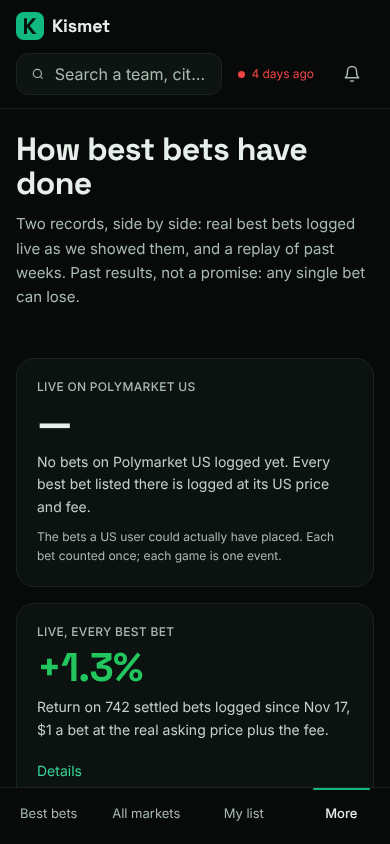
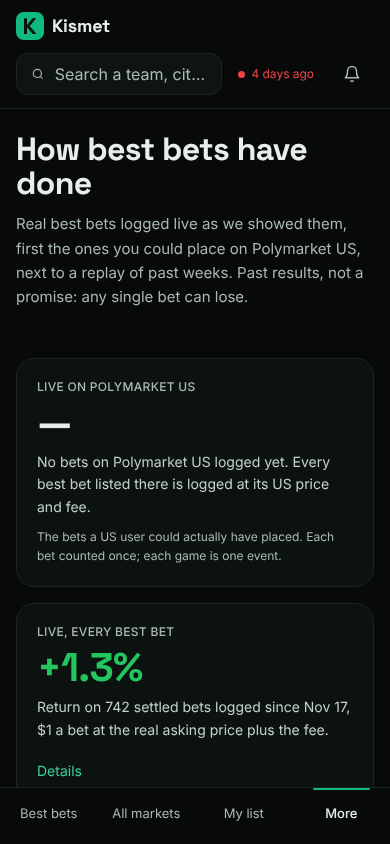
T-296: events and the 'enough' call from the US record only; split check script; doc fixes
Claude-Session: https://claude.ai/code/session_01Xq7uwdZCe7fdoS1L1HaNXT

Changed region(s): [[0.0308, 0.2464, 0.9538, 0.3697]]

diff --git a/apps/web/components/results/summary.ts b/apps/web/components/results/summary.ts
@@ -20,13 +20,14 @@ const evs = (n: number) => `${exactCount(n)} event${n === 1 ? "" : "s"}`;
  *  summary has it, else the raw rows (summaries written before `first` existed). */
 export const liveBase = (l: LedgerSummary | null | undefined): LedgerStats | null => (l ? (l.first ?? l) : null);
 
-/** Distinct events among settled bets, or null when the summary can't know them. engine/ledger.summarize groups by
- *  `event_id`, which rows logged before the US venue shipped don't have, so each of those markets counts as its own
- *  event (Nov 20 ledger: 739 "events" for 742 bets, really ~179 games and city-days). A record of 50+ bets with at
- *  least 98% as many events as bets is read as "no event ids", never shown as a sample size. */
-export function eventsOf(s: LedgerStats | null | undefined): number | null {
-  if (!s || !ok(s.events) || !s.graded) return null;
-  return s.graded >= 50 && s.events >= 0.98 * s.graded ? null : s.events;
+/** Distinct events among settled bets, from the US record only. engine/ledger.summarize groups by `event_id`, which
+ *  rows logged before the US venue shipped don't have, so in `first` (and the raw totals) each of those markets counts
+ *  as its own event (Nov 20 ledger: 739 "events" for 742 bets, really ~179 games and city-days), and that stays true
+ *  as new rows arrive. Rows with a US price are all logged by the new code, which writes `event_id`, so the US
+ *  record's count is the only one shown as a sample size until old rows get an `event_id`. */
+export function usEvents(l: LedgerSummary | null | undefined): number | null {
+  const u = l?.us;
+  return u?.graded && ok(u.events) ? u.events : null;
 }
 
 /** Polymarket US record (the only venue US users can trade): settled US-listed bets at the US price and fee. */
@@ -43,7 +44,7 @@ export function usHeadline(l: LedgerSummary | null | undefined): Headline {
   const r = liveReturn(u);
   return {
     value: ret(r), tone: tone(r),
-    sentence: `Return on ${bets(u.graded)}${eventsOf(u) !== null ? ` in ${evs(eventsOf(u)!)}` : ""} you could place on Polymarket US, $1 a bet at the US price plus its fee.`,
+    sentence: `Return on ${bets(u.graded)}${usEvents(l) !== null ? ` in ${evs(usEvents(l)!)}` : ""} you could place on Polymarket US, $1 a bet at the US price plus its fee.`,
   };
 }
 
@@ -57,7 +58,7 @@ export function liveHeadline(l: LedgerSummary | null | undefined, since: string 
   const r = liveReturn(s);
   return {
     value: ret(r), tone: tone(r),
-    sentence: `Return on ${bets(s.graded)}${eventsOf(s) !== null ? ` in ${evs(eventsOf(s)!)}` : ""} logged${since ? ` since ${since}` : ""}, $1 a bet at the real asking price plus the fee.`,
+    sentence: `Return on ${bets(s.graded)} logged${since ? ` since ${since}` : ""}, $1 a bet at the real asking price plus the fee.`,
   };
 }
 
@@ -113,8 +114,9 @@ export function eventsNeeded(r: BacktestRecord | null | undefined): number | nul
   return Math.max(1, Math.ceil(r.events * (JUDGE_T / r.t_stat) ** 2));
 }
 
-/** The site proof line with the two §G3 corrections for this page: the test span from folds[] (not folds × days),
- *  and the live half counted by bet once and by event, judged on events. `help` is kept (it starts "Testing: "). */
+/** The site proof line with the §G3 corrections for this page: the test span from folds[] (not folds × days); the
+ *  live record counted by bet once; and "enough to compare" judged on events, which only the US record counts
+ *  reliably (see usEvents), so with no settled US bets no call is made. `help` is kept (it starts "Testing: "). */
 export function trackProof(p: Proof, b: BacktestFile | null | undefined, l: LedgerSummary | null | undefined, since: number | null): Proof {
   const r = b ? chosenResult(b)?.taker : null;
   const test = r && ok(r.roi_pct) && r.flags
@@ -124,17 +126,17 @@ export function trackProof(p: Proof, b: BacktestFile | null | undefined, l: Ledg
   const need = eventsNeeded(r);
   const head = since ? `Live since ${sinceDay(since)}` : "Live so far";
   const n = s?.graded ?? 0;
-  const e = eventsOf(s);
+  const e = usEvents(l);
   const roi = liveReturn(s);
   const enough = need !== null && e !== null && e >= need;
   let live: string;
   if (!s) live = "Live record: starts with the first logged best bet.";
   else if (!n) live = `${head}: ${exactCount(s.entries)} logged, none settled yet.`;
   else {
-    const what = `${bets(n)}${e !== null ? ` in ${evs(e)}` : ""}, ${ret(roi)}`;
-    live = need === null || e === null ? `${head}: ${what}.`
-      : enough ? `${head}: ${what}, enough to compare with testing.`
-        : `${head}: ${what}, still too few to judge (needs ~${formatCount(need)} events).`;
+    const us = e !== null ? `; on Polymarket US ${bets(l!.us!.graded)} in ${evs(e)}, ${ret(liveReturn(l!.us))}` : "";
+    live = need === null || e === null ? `${head}: ${bets(n)}, ${ret(roi)}${us}.`
+      : enough ? `${head}: ${bets(n)}, ${ret(roi)}${us}, enough to compare with testing.`
+        : `${head}: ${bets(n)}, ${ret(roi)}${us}, still too few to judge (needs ~${formatCount(need)} events).`;
   }
   return { ...p, test, live, line: [test, live].filter(Boolean).join(" "), needs: need, settled: n, liveRoi: roi, enough };
 }

diff --git a/apps/web/components/results/summary.test.ts b/apps/web/components/results/summary.test.ts
@@ -5,8 +5,8 @@ import { ret } from "@/lib/format";
 import { siteProof } from "@/lib/proof";
 import type { BacktestFile, LedgerStats, LedgerSummary } from "@/lib/types";
 import {
-  biggestGroup, compareSentence, eventsNeeded, eventsOf, intlOnlyNote, liveBase, liveHeadline, ratedHigher, testHeadline, testSpanText,
-  testWeeks, trackProof, usHeadline, weeksHeadline,
+  biggestGroup, compareSentence, eventsNeeded, intlOnlyNote, liveBase, liveHeadline, ratedHigher, testHeadline, testSpanText,
+  testWeeks, trackProof, usEvents, usHeadline, weeksHeadline,
 } from "./summary";
 
 const b = fixture as unknown as BacktestFile;
@@ -30,7 +30,7 @@ describe("live record: four states", () => {
     expect(usHeadline(base)).toMatchObject({ value: "—" });
     expect(usHeadline(base).sentence).toMatch(/No bets on Polymarket US logged yet/);
     expect(liveBase(base)).toBe(base);
-    expect(liveHeadline(base, "Nov 17").sentence).toMatch(/^Return on 862 settled bets in 179 events logged since Nov 17/);
+    expect(liveHeadline(base, "Nov 17").sentence).toMatch(/^Return on 862 settled bets logged since Nov 17/);
   });
   it("US bets logged but none settled", () => {
     const l = { ...base, first, us: { ...S(0, 0, 0, 0, 12), avg_pnl: null, by_category: {} } };
@@ -44,21 +44,27 @@ describe("live record: four states", () => {
     expect(h.value).toBe(ret((40 * 0.05) / (36 - 40 * 0.05) * 100));
     expect(h.sentence).toMatch(/^Return on 40 settled bets in 9 events you could place on Polymarket US/);
     // headline whole record uses `first` (each bet once), not the raw rows
-    expect(liveHeadline(l, null).sentence).toMatch(/^Return on 593 settled bets in 179 events/);
+    expect(liveHeadline(l, null).sentence).toMatch(/^Return on 593 settled bets logged,/);
     expect(intlOnlyNote(l)).toBe("Including international-only bets US users couldn't place: 553 (mostly weather).");
   });
 });
 
-describe("event counts from rows without event ids", () => {
-  it("are not shown as a sample size, and the live line makes no 'enough' call on them", () => {
+describe("event counts: only the US record's", () => {
+  it("old rows without event ids never count as events, even mixed with new rows that have them", () => {
+    // 742 old bets (each its own "event") + 30 new US bets in 10 games: first.events = 749 of 772
+    const l: LedgerSummary = { ...base, first: S(772, 597, 0.01, 749), us: { ...S(30, 25, 0.02, 10), by_category: {} }, intl_only: S(742, 572, 0.01) };
+    expect(usEvents(l)).toBe(10);
+    expect(liveHeadline(l, null).sentence).toMatch(/^Return on 772 settled bets logged,/);
+    const p = trackProof(siteProof({ backtest: b, ledger: l, since: NOV17 }), b, l, NOV17);
+    expect(p.live).toBe(`Live since Nov 17: 772 settled bets, ${ret(p.liveRoi)}; on Polymarket US 30 settled bets in 10 events, ${ret((0.6 / 24.4) * 100)}, still too few to judge (needs ~${eventsNeeded(taker)} events).`);
+    expect(p.enough).toBe(false);
+  });
+  it("no settled US bets: no events, no 'enough' call, no international-only note", () => {
     const l = { ...base, first: S(742, 573, 0.0103, 739) };
-    expect(eventsOf(l.first)).toBeNull();
-    expect(eventsOf(first)).toBe(179);
-    expect(liveHeadline(l, null).sentence).toMatch(/^Return on 742 settled bets logged,/);
+    expect(usEvents(l)).toBeNull();
     const p = trackProof(siteProof({ backtest: b, ledger: l, since: NOV17 }), b, l, NOV17);
     expect(p.live).toBe(`Live since Nov 17: 742 settled bets, ${ret(p.liveRoi)}.`);
     expect(p.enough).toBe(false);
-    // no US rows logged yet: every bet would read as international-only, so no note
     expect(intlOnlyNote({ ...l, intl_only: S(742, 573, 0.01) })).toBeNull();
   });
 });
@@ -83,16 +89,14 @@ describe("test span from folds[], not folds × days", () => {
 
 describe("proof line for this page", () => {
   it("keeps the test return and the 'Testing: ' basis, judges live on events", () => {
-    const l = { ...base, first };
+    const l = { ...base, first, us: { ...S(60, 52, 0.03, 20), by_category: {} } };
     const p = trackProof(siteProof({ backtest: b, ledger: l, since: NOV17 }), b, l, NOV17);
     expect(p.test).toBe(`In testing on past markets from Aug 29 to Nov 14, 95% of bets in the last 2 weeks: best bets, ${ret(taker.roi_pct)} per bet.`);
     expect(p.help).toMatch(/^Testing: /);
     const need = eventsNeeded(taker)!;
     expect(need).toBe(Math.ceil(1394 * (2 / 18.51) ** 2));
-    expect(p.live).toBe(`Live since Nov 17: 593 settled bets in 179 events, ${ret(p.liveRoi)}, enough to compare with testing.`);
-    const few = { ...l, first: S(20, 15, -0.01, 4) };
-    expect(trackProof(siteProof({ backtest: b, ledger: few, since: NOV17 }), b, few, NOV17).live)
-      .toBe(`Live since Nov 17: 20 settled bets in 4 events, ${ret((-0.2 / 15.2) * 100)}, still too few to judge (needs ~${need} events).`);
+    expect(p.live).toBe(`Live since Nov 17: 593 settled bets, ${ret(p.liveRoi)}; on Polymarket US 60 settled bets in 20 events, ${ret((1.8 / 50.2) * 100)}, enough to compare with testing.`);
+    expect(p.enough).toBe(true);
   });
   it("no events needed when the test lost money", () => {
     expect(eventsNeeded({ ...taker, roi_pct: -1 })).toBeNull();

diff --git a/apps/web/app/track-record/page.tsx b/apps/web/app/track-record/page.tsx
@@ -10,8 +10,8 @@ import { can } from "@/lib/entitlements";
 import { getStore } from "@/lib/data/store";
 import { ProofLine } from "@/components/results/ProofLine";
 import {
-  biggestGroup, compareSentence, eventsOf, intlOnlyNote, liveBase, liveHeadline, paysHeadline, ratedHigher, testHeadline, testSpanText,
-  testWeeks, trackProof, usHeadline, weeksHeadline, type Headline,
+  biggestGroup, compareSentence, intlOnlyNote, liveBase, liveHeadline, paysHeadline, ratedHigher, testHeadline, testSpanText,
+  testWeeks, trackProof, usEvents, usHeadline, weeksHeadline, type Headline,
 } from "@/components/results/summary";
 import { liveReturn, siteProof, sinceDay } from "@/lib/proof";
 import { DASH, edge, exactCount, formatCount, pct, ret } from "@/lib/format";
@@ -67,7 +67,7 @@ export default async function Page() {
       <header className="flex flex-col gap-3">
         <h1 className="max-w-3xl text-[32px] font-bold leading-[1.05] tracking-[-0.02em] md:text-[40px]">How best bets have done</h1>
         <p className="max-w-2xl text-[15px] leading-relaxed text-muted">
-          Two records, side by side: real best bets logged live as we showed them, and a replay of past weeks. Past results, not a promise: any single bet can lose.
+          Real best bets logged live as we showed them, first the ones you could place on Polymarket US, next to a replay of past weeks. Past results, not a promise: any single bet can lose.
         </p>
       </header>
 
@@ -148,7 +148,7 @@ export default async function Page() {
           <ul className="mt-3 flex list-disc flex-col gap-2 pl-5 text-sm leading-relaxed text-soft">
             <li>The live record is young. Bets on the same game or the same day&apos;s weather win or lose together, so a few days of results swing a lot.</li>
             <li>Headline live numbers count each bet once, even when we showed it again at a lower price. Details also shows every logged row.</li>
-            <li>Bets logged before Polymarket US prices were added have no game id, so each of their markets counts as its own event; the true number of events is lower.</li>
+            <li>Bets logged before Polymarket US prices were added have no game id, so events are counted, and the live record judged, on the US record only.</li>
             <li>Past prices are mid prices (halfway between buy and sell). The real asking price was higher.</li>
             <li>To cover that gap, each test bet is charged half of today&apos;s typical spread for its kind of market. Spreads at the time are estimated, not recorded.</li>
             {weeks.lastTwoShare !== null && weeks.lastTwoShare >= 0.5 && (
@@ -285,7 +285,7 @@ function LiveDetails({ ledger, needs }: { ledger?: LedgerSummary; needs: number 
       <dl className="grid grid-cols-2 gap-3 text-sm">
         <Stat label="Best bets logged (each once)" value={formatCount(once.entries)} />
         <Stat label="Settled" value={once.graded ? `${formatCount(once.wins)} won · ${formatCount(once.losses)} lost` : "none yet"} />
-        <Stat label="Events settled" value={eventsOf(once) !== null ? formatCount(eventsOf(once)) : "not recorded"} />
+        <Stat label="Events settled, US record" value={usEvents(ledger) !== null ? formatCount(usEvents(ledger)) : "none yet"} />
         <Stat label="Average profit per $1 share" value={edge(once.avg_pnl)} />
         <Stat label="Every logged row, re-shows included" value={ledger.graded ? `${formatCount(ledger.graded)} settled · ${ret(liveReturn(ledger))}` : "none settled"} />
         <Stat label="Updated" value={date(ledger.updated_at)} />

diff --git a/scripts/ledger/split_check.py b/scripts/ledger/split_check.py
@@ -1,0 +1,47 @@
+"""Two checks behind docs/research/live-vs-backtest.md §3 and §4.
+
+1. Is the held-out split independent of the in-sample one? Held-out = rows settled in ledger_now.jsonl that were not
+   settled in the published snapshot (grade_now.py). Prints their flag days and how many of their events also appear
+   in-sample (event = scripts/ledger/common.event_key).
+2. What does engine/ledger.summarize (US venue) report on these rows? `first.events` vs `first.graded` shows that
+   rows logged without `event_id` each count as their own event; `us` is empty for rows logged before US prices.
+
+    python3 scripts/ledger/split_check.py ledger.jsonl ledger_now.jsonl      (run from the repo root)
+"""
+import os
+import sys
+import time
+from collections import Counter
+
+import importlib.util  # noqa: E402
+
+# pipeline/ also has a common.py on sys.path once engine.ledger is imported, so load ours under its own name
+_spec = importlib.util.spec_from_file_location("ledger_common", os.path.join(os.path.dirname(__file__), "common.py"))
+_c = importlib.util.module_from_spec(_spec)
+_spec.loader.exec_module(_c)
+event_key, graded, load = _c.event_key, _c.graded, _c.load
+sys.path.insert(0, os.path.join(os.path.dirname(__file__), "..", ".."))
+from engine.ledger import summarize  # noqa: E402
+
+
+def main(pub_p, now_p):
+    key = lambda e: (e["id"], e["side_index"], e["flagged_at"])  # noqa: E731
+    pub = {key(e) for e in graded(load(pub_p))}
+    now_rows = load(now_p)
+    now = graded(now_rows)
+    held = [e for e in now if key(e) not in pub]
+    ins = [e for e in now if key(e) in pub]
+    ie, he = {event_key(e) for e in ins}, {event_key(e) for e in held}
+    print(f"in-sample rows {len(ins)} events {len(ie)} | held-out rows {len(held)} events {len(he)}")
+    print(f"held-out events also in-sample: {len(he & ie)}; held-out rows in them: {sum(event_key(e) in ie for e in held)}")
+    print("held-out by flag day:", dict(Counter(time.strftime('%m-%d', time.gmtime(e['flagged_at'])) for e in held)))
+    print("held-out by category:", dict(Counter(e["category"] for e in held)))
+    s = summarize(now_rows, 0)
+    for k in ("first", "us", "intl_only"):
+        print(f"summarize {k:9s}", {x: s[k].get(x) for x in ("entries", "graded", "events", "roi_pct")})
+    print(f"events by event_key among settled rows: {len({event_key(e) for e in now})}; "
+          f"logged rows with event_id: {sum(1 for e in now_rows if e.get('event_id'))} of {len(now_rows)}")
+
+
+if __name__ == "__main__":
+    main(*sys.argv[1:])

diff --git a/docs/research/live-vs-backtest.md b/docs/research/live-vs-backtest.md
@@ -6,8 +6,8 @@ Why, and what filter would have brought live closer to the test?
 Short answer: the gap is real, but it is **not** explained by entry prices, the lower-confidence tier, 90¢+
 favourites, weather, or a lookahead we could find in the price data. On the very markets of the overlap week the
 model claims ~87% wins where the price says ~79% and the outcome came out ~80%: the **model's win chances are too
-high live**. The live record itself is one slate of markets (179 events, almost all flagged on Nov 17), so it cannot
-yet tell −2% from +10%. The one filter that moved both the in-sample and the held-out rows the same way is a cap on
+high live**. Live is clearly below the test (about 7 standard errors), but not clearly below zero: it is one slate of
+markets (179 events, almost all flagged on Nov 17), and its own t-stat is −0.96. The one filter that moved both the in-sample and the held-out rows the same way is a cap on
 the predicted edge (`flag_max_edge = 0.10`); it is shipped off by default and it does **not** close the gap.
 
 Everything below is reproducible with `scripts/ledger/*.py` (python3, standard library). Data: the `live` branch
@@ -24,6 +24,7 @@ python3 scripts/ledger/stale_check.py     /tmp/l/ledger.jsonl /tmp/l/cache
 python3 scripts/ledger/grade_now.py       /tmp/l/ledger.jsonl /tmp/l/ledger_now.jsonl /tmp/l/cache_now
 python3 scripts/ledger/filters.py         /tmp/l/ledger_now.jsonl
 python3 scripts/ledger/weather.py         /tmp/l/ledger.jsonl /tmp/l/ledger_now.jsonl
+python3 scripts/ledger/split_check.py     /tmp/l/ledger.jsonl /tmp/l/ledger_now.jsonl   # §3 split, §4 summary fields
 ```
 
 ## 1. Where the site's numbers come from, reconciled
@@ -112,10 +113,13 @@ international prices, before US's ~0.6¢ higher fee. `/track-record` therefore l
 so, then the whole record.
 
 Two caveats for the new summary fields, both in `engine/ledger.py` (not lane E's file):
-- `events` groups by `event_id`, which old rows lack, so each old market counts as its own event: `first` shows
-  **739 events for 742 bets** where the real count is ~179 games and city-days. The page treats a record of 50+
-  bets with ≥ 98% as many events as bets as "events not recorded" and makes no "enough to compare" call from it.
-  Fix at the source: derive `event_id` for old rows (Gamma event id, or `scripts/ledger/common.event_key`).
+- `events` groups by `event_id`, which no row logged so far has (0 of 2,687), so each old market counts as its own
+  event: `first` shows **739 events for 742 bets** where `event_key` finds 208 (179 in-sample). Mixed with new rows
+  the count stays inflated, so the page takes events, and the "enough to compare" call, from the US record only
+  (every row with a US price is written by the new code, which logs `event_id`). With no settled US bets the page
+  makes no call. Fix at the source: derive `event_id` for old rows (Gamma event id, or `common.event_key`).
+- On the test's numbers "enough" comes early: test events × (2 ÷ t)² is ~10 events on the live-branch run (2,871
+  events, t 34.7) and 17 on the fixture, so the US record will read "enough to compare" after its first ten-odd games.
 - `intl_only` is every old row (742 of 742), not "bets US users couldn't place". The page shows the
   international-only line only once some US rows exist.
 

diff --git a/docs/overhaul-evidence/E/NOTES.md b/docs/overhaul-evidence/E/NOTES.md
@@ -24,15 +24,15 @@ node --input-type=module - after < ../../scripts/ledger/shoot.mjs           # Ch
 - "Testing on 1 year of past markets" is gone from this page: the span comes from `folds[]` ("from Nov 30, 2025 to
   Nov 14, 2026, 86% of bets in the last 2 weeks"). `lib/proof.testSpan` (folds × days) still says "1 year" on other
   pages: not lane E's file.
-- "Enough to compare" is judged on events (test events × (2 ÷ t)²), and never on the event count of rows logged
-  without `event_id`.
+- "Enough to compare" is judged on events (test events × (2 ÷ t)²), taken from the US record only: rows logged
+  before the US venue have no `event_id`, so `first.events` counts each market as an event (739 for 742 bets).
 - Edge section title is computed: "Bets we rated higher did better" only when every edge group of 30+ test bets
   earned more than the one below (true on the fixture, false on production Nov 20: 13.1 / 14.0 / 10.2 / 16.9¢).
 - No week was changed: the May week is not a proven data bug.
 - Charts stay in `app/track-record/Charts.tsx`.
 
 ## Gates
-- `pnpm lint`, `pnpm typecheck`: clean. `pnpm test`: 93 files, 675 tests passed (13 new in `components/results/summary.test.ts`).
+- `pnpm lint`, `pnpm typecheck`: clean. `pnpm test`: 93 files, 676 tests passed (14 new in `components/results/summary.test.ts`).
 - `engine`: `python3 -m pytest -q tests`: 77 passed (after merging `overhaul`).
-- e2e (`PW_PORT=3220`, `--workers=1`) a11y + proof + s6: 36 passed, 1 failed on the first run (proof.spec drawer
+- e2e (`PW_PORT=3220`, `--workers=1`) a11y + proof + s6: 37 passed on the final run; on an earlier run 1 failed (proof.spec drawer
   test, `/` drawer, untouched by lane E), passed on rerun.
